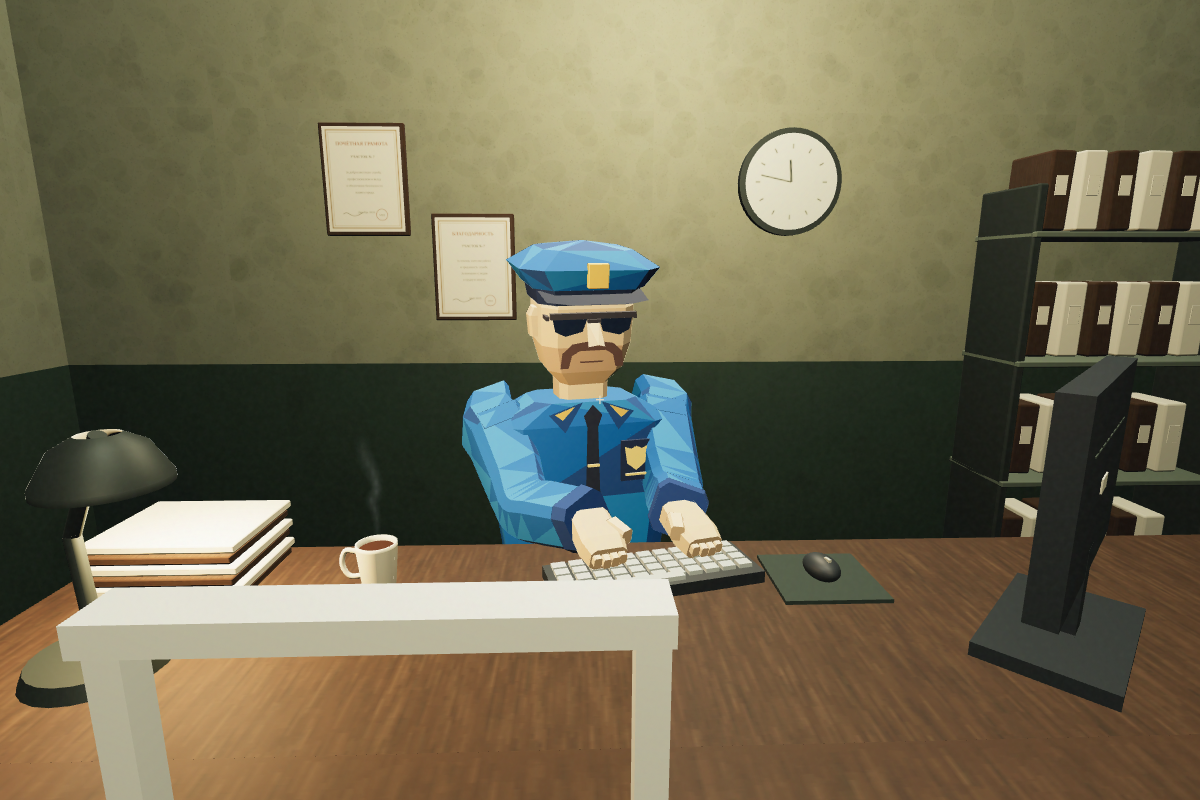
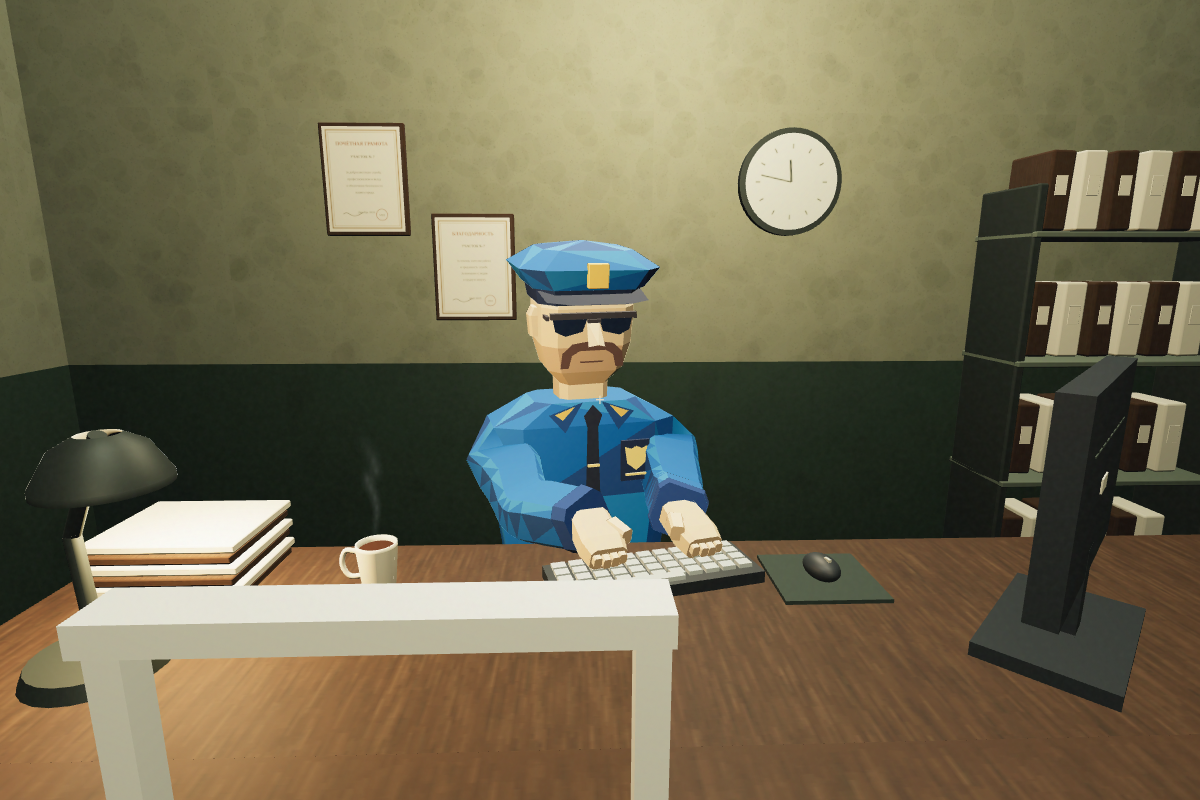
Remove raised shoulder caps and weld animated sleeves to jacket

Changed region(s): [[0.37, 0.4688, 0.4625, 0.6875], [0.5242, 0.4688, 0.5858, 0.625]]

diff --git a/scripts/prepare-duty-officer.py b/scripts/prepare-duty-officer.py
@@ -5,6 +5,9 @@ Keeps the standing reference files intact; exports the game's rig with finger jo
 and continuous, weighted sleeves instead of disconnected elbow caps.
 """
 import bpy
+import bmesh
+import math
+from mathutils import Vector
 from pathlib import Path
 
 ROOT = Path(__file__).resolve().parents[1]
@@ -33,34 +36,58 @@ for label in ['L','R']:
 
 outline=[(-.72,-1),(.72,-1),(1,-.64),(1,.64),(.72,1),(-.72,1),(-1,.64),(-1,-.64)]
 materials=[bpy.data.materials[name] for name in ['uniform-blue','uniform-light-panel','uniform-dark-panel']]
+# Open the actual jacket side panels. Their perimeter is reused by the sleeves
+# and welded after joining, so the shoulders share geometry and spine weights.
+body=bpy.data.objects['tailored-jacket']
+bm=bmesh.new();bm.from_mesh(body.data)
+shoulder_roots={}
 for side,label in [(-1,'L'),(1,'R')]:
-    for name in ['upper-sleeve-','lower-sleeve-']:
+    faces=[f for f in bm.faces if all(side*v.co.x>.24 and 1.279<v.co.z<1.481 and abs(v.co.y)<.077 for v in f.verts)]
+    assert len(faces)==2, 'Jacket shoulder panel not found'
+    boundary={e for f in faces for e in f.edges if sum(other in faces for other in e.link_faces)==1}
+    bmesh.ops.delete(bm,geom=faces,context='FACES_ONLY')
+    bmesh.ops.subdivide_edges(bm,edges=list(boundary),cuts=1,use_grid_fill=False)
+    edges=[e for e in bm.edges if len(e.link_faces)==1 and all(side*v.co.x>.24 and 1.279<v.co.z<1.481 and abs(v.co.y)<.077 for v in e.verts)]
+    vertices={v for e in edges for v in e.verts}
+    assert len(edges)==len(vertices)==8, 'Shoulder opening must be a closed eight-edge loop'
+    shoulder_roots[label]=[tuple(v.co) for v in sorted(vertices,key=lambda v:math.atan2(v.co.y,side*(v.co.z-1.38)))]
+for edge in list(bm.edges):
+    if not edge.link_faces:bm.edges.remove(edge)
+bm.to_mesh(body.data);bm.free();body.data.update()
+for side,label in [(-1,'L'),(1,'R')]:
+    for name in ['upper-sleeve-','lower-sleeve-','angular-shoulder-']:
         bpy.data.objects.remove(bpy.data.objects[name+label],do_unlink=True)
     # Shared elbow rings have the same positions and blended joint weights.
-    rings=[(1.46,side*.239,0,.078,.086,0),
-           (1.29,side*.278,.003,.072,.075,.04),
-           (1.23,side*.294,.004,.069,.069,.25),
-           (1.20,side*.298,.004,.067,.067,.5),
-           (1.17,side*.300,.003,.065,.065,.75),
-           (1.11,side*.302,0,.062,.062,.96),
-           (.96,side*.306,-.005,.056,.055,1)]
-    verts=[(cx+x*rx,cy+y*ry,z) for z,cx,cy,rx,ry,_ in rings for x,y in outline]
-    faces=[tuple(reversed(range(8)))]
-    for r in range(len(rings)-1):
+    # Two transition rings blend the fixed jacket perimeter into the upper arm.
+    # Fields: height, centre, radii, forearm blend, arm-versus-spine blend.
+    rings=[(1.39,side*.257,.001,.076,.083,0,.45),
+           (1.33,side*.271,.002,.074,.079,0,.9),
+           (1.29,side*.278,.003,.072,.075,.04,1),
+           (1.23,side*.294,.004,.069,.069,.25,1),
+           (1.20,side*.298,.004,.067,.067,.5,1),
+           (1.17,side*.300,.003,.065,.065,.75,1),
+           (1.11,side*.302,0,.062,.062,.96,1),
+           (.96,side*.306,-.005,.056,.055,1,1)]
+    verts=shoulder_roots[label]+[(cx+x*rx,cy+y*ry,z) for z,cx,cy,rx,ry,_,_ in rings for x,y in outline]
+    faces=[]
+    for r in range(len(rings)):
         for i in range(8):
             a=r*8+i;b=r*8+(i+1)%8;c=b+8;d=a+8
             faces.extend([(a,b,c),(a,c,d)])
-    faces.append(tuple(range((len(rings)-1)*8,len(rings)*8)))
+    faces.append(tuple(range(len(rings)*8,(len(rings)+1)*8)))
     data=bpy.data.meshes.new('continuous-sleeve-'+label);data.from_pydata(verts,[],faces);data.update()
     obj=bpy.data.objects.new(data.name,data);bpy.context.collection.objects.link(obj)
     for m in materials:data.materials.append(m)
     for p in data.polygons:p.material_index=[0,0,1,0,2,0,1,0][p.index%8]
     upper=obj.vertex_groups.new(name='upper_arm.'+label)
     lower=obj.vertex_groups.new(name='forearm.'+label)
+    spine=obj.vertex_groups.new(name='spine')
+    spine.add(list(range(8)),1,'REPLACE')
     for r,ring in enumerate(rings):
-        ids=list(range(r*8,(r+1)*8));weight=ring[-1]
-        if weight<1:upper.add(ids,1-weight,'REPLACE')
-        if weight>0:lower.add(ids,weight,'REPLACE')
+        ids=list(range((r+1)*8,(r+2)*8));forearm,arm=ring[-2:]
+        if arm<1:spine.add(ids,1-arm,'REPLACE')
+        if forearm<1:upper.add(ids,(1-forearm)*arm,'REPLACE')
+        if forearm>0:lower.add(ids,forearm*arm,'REPLACE')
     obj.parent=rig
     modifier=obj.modifiers.new('Officer skeleton','ARMATURE');modifier.object=rig
     bpy.context.view_layer.objects.active=obj;obj.select_set(True)
@@ -74,6 +101,16 @@ for obj in rig.children:
 bpy.context.view_layer.objects.active=bpy.data.objects['continuous-sleeve-L']
 bpy.ops.object.join()
 bpy.context.object.name='officer-skin'
+skin=bpy.context.object
+bm=bmesh.new();bm.from_mesh(skin.data)
+bmesh.ops.remove_doubles(bm,verts=list(bm.verts),dist=.000001)
+for root in shoulder_roots.values():
+    seam=[v for v in bm.verts if any((v.co-Vector(p)).length<.000001 for p in root)]
+    assert len(seam)==8, 'Shoulder perimeter must be welded'
+    seam_edges={e for v in seam for e in v.link_edges if all(other in seam for other in e.verts)}
+    assert len(seam_edges)==8 and all(len(e.link_faces)==2 for e in seam_edges), 'Open shoulder seam'
+bmesh.ops.recalc_face_normals(bm,faces=list(bm.faces))
+bm.to_mesh(skin.data);bm.free();skin.data.update()
 bpy.ops.object.select_all(action='DESELECT')
 rig.select_set(True)
 for obj in rig.children:
